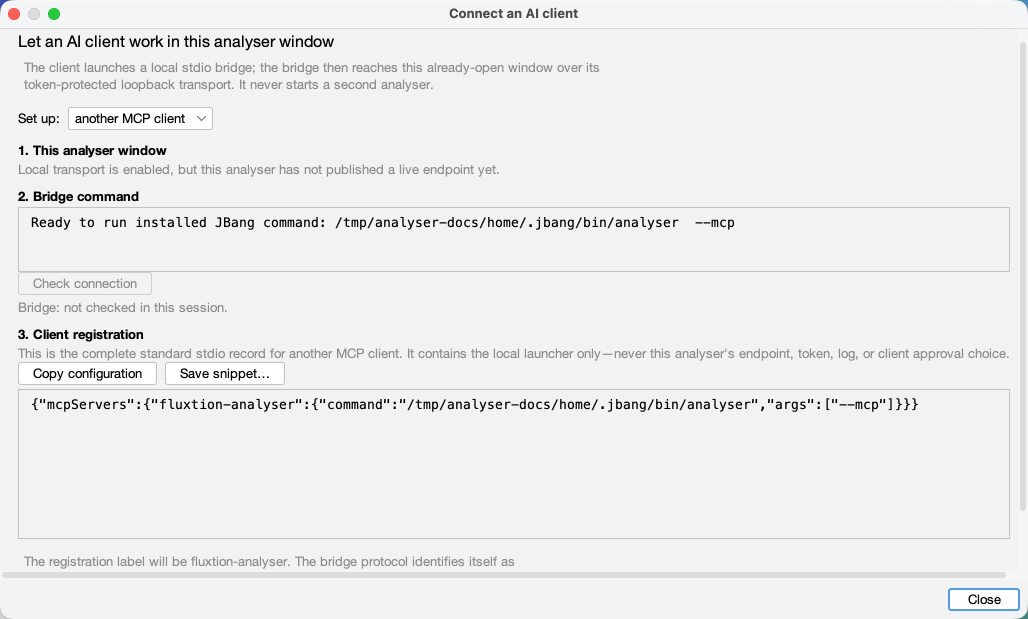
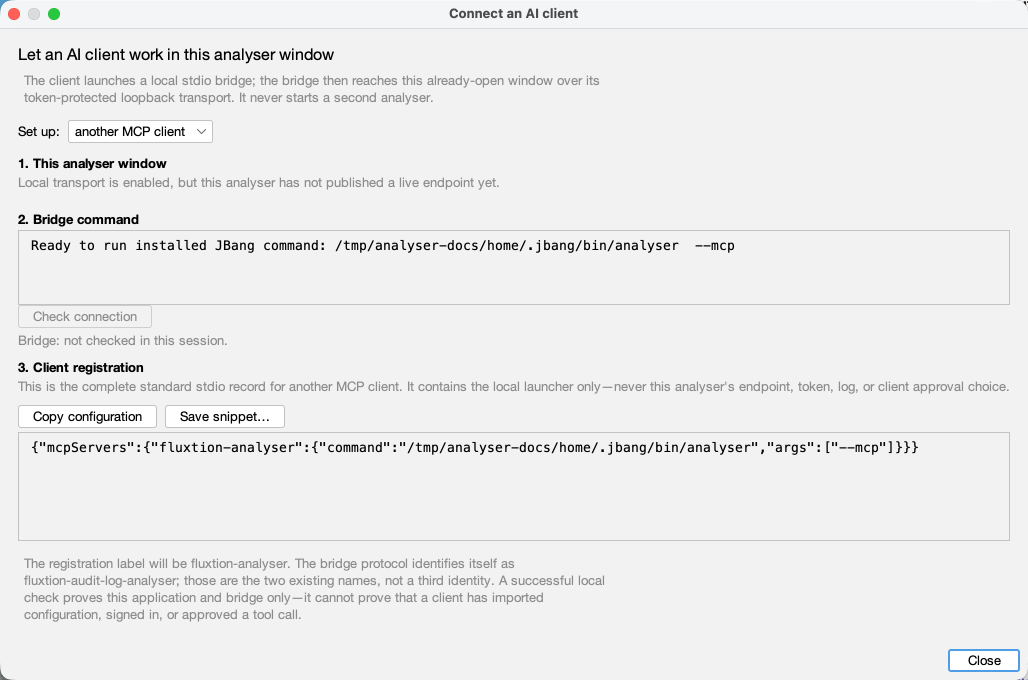
M42: close milestone review findings

diff --git a/src/main/java/telamin/fluxtion/audit/analyser/analyser/mcp/McpLaunchCommand.java b/src/main/java/telamin/fluxtion/audit/analyser/analyser/mcp/McpLaunchCommand.java
@@ -56,11 +56,12 @@ public final class McpLaunchCommand {
 
     /**
      * A safe form-2 resolver for an app launched directly from one shaded jar. It retains the current
-     * JVM's options through {@code -jar} (notably an isolated {@code -Duser.home}) and discards only the
-     * app arguments after the jar before adding {@code --mcp}. A classpath with more than one entry is
-     * deliberately refused: reconstructing an IDE or arbitrary Java launch would be a plausible-looking
-     * guess, not the exact bridge command a client should inherit. JBang wins whenever its documented
-     * launcher exists; this is the useful fallback for {@code java -jar} and release smoke tests.
+     * JVM's safe options through {@code -jar} (notably an isolated {@code -Duser.home}) and discards only the
+     * app arguments after the jar before adding {@code --mcp}. A classpath with more than one entry, or a
+     * debug/instrumentation JVM option, is deliberately refused: reconstructing an IDE or arbitrary Java launch
+     * would be a plausible-looking guess, not a bridge command a client can safely inherit. JBang wins whenever
+     * its documented launcher exists; this is the useful fallback for a plain {@code java -jar} launch and
+     * release smoke tests.
      */
     public static Optional<McpLaunchCommand> runningJar() {
         String classPath = System.getProperty("java.class.path", "");
@@ -99,6 +100,9 @@ public final class McpLaunchCommand {
             }
             if (jarFlag >= 0) {
                 // Everything after the jar is an app argument (log path, --rest, …), not a JVM option.
+                for (int i = 0; i < jarFlag; i++) {
+                    if (unsafeForClientBridge(currentArguments[i])) return Optional.empty();
+                }
                 for (int i = 0; i <= jarFlag; i++) launcher.add(currentArguments[i]);
                 launcher.add(jar.toString());
             } else {
@@ -113,6 +117,16 @@ public final class McpLaunchCommand {
         } catch (RuntimeException e) {
             return Optional.empty();
         }
+    }
+
+    /** Debug agents can bind an occupied port or suspend a client-launched bridge before it reads stdin. */
+    private static boolean unsafeForClientBridge(String argument) {
+        return argument.startsWith("-agentlib:")
+                || argument.startsWith("-agentpath:")
+                || argument.startsWith("-javaagent:")
+                || "-Xdebug".equals(argument)
+                || argument.startsWith("-Xrunjdwp:")
+                || (argument.startsWith("-XX:") && argument.contains("Debugger"));
     }
 
     /** A selected shaded jar, launched by the selected absolute Java executable. */

diff --git a/src/main/java/telamin/fluxtion/audit/analyser/analyser/ui/McpSetupDialog.java b/src/main/java/telamin/fluxtion/audit/analyser/analyser/ui/McpSetupDialog.java
@@ -117,7 +117,12 @@ public final class McpSetupDialog extends JDialog {
         buildUi();
         refreshReadiness();
         pack();
-        setMinimumSize(new Dimension(660, getHeight()));
+        // Keep the registration/naming disclosure in the first view on ordinary displays. The body remains
+        // scrollable when a short screen cannot accommodate this height.
+        int screenCappedHeight = Math.max(getHeight(), Toolkit.getDefaultToolkit().getScreenSize().height - 80);
+        int initialHeight = Math.min(screenCappedHeight, Math.max(680, getHeight()));
+        setMinimumSize(new Dimension(660, initialHeight));
+        setSize(Math.max(660, getWidth()), initialHeight);
         setLocationRelativeTo(owner);
     }
 
@@ -223,7 +228,7 @@ public final class McpSetupDialog extends JDialog {
 
     /** The generic record is intentionally larger than a command: its argument vector must be inspectable. */
     private static JTextArea configurationBox() {
-        return borderedTextBox(8, 68);
+        return borderedTextBox(5, 68);
     }
 
     /** Confirmation is deliberately wider: a local Java path must be inspectable before a client CLI runs. */

diff --git a/src/test/java/telamin/fluxtion/audit/analyser/analyser/mcp/McpLaunchCommandTest.java b/src/test/java/telamin/fluxtion/audit/analyser/analyser/mcp/McpLaunchCommandTest.java
@@ -75,4 +75,21 @@ class McpLaunchCommandTest {
         assertEquals(List.of(java.toAbsolutePath().toString(), "-Duser.home=" + dir.resolve("isolated-home").toAbsolutePath(),
                 "-jar", jar.toAbsolutePath().toString(), "--mcp"), command.command());
     }
+
+    @Test
+    void refusesDebugOrInstrumentationOptionsForTheDirectJarFallback() throws Exception {
+        Path java = dir.resolve("java");
+        Path jar = dir.resolve("analyser.jar");
+        Files.createFile(java);
+        Files.createFile(jar);
+
+        for (String unsafe : List.of("-agentlib:jdwp=transport=dt_socket,address=5005,suspend=y",
+                "-agentpath:/tmp/instrument.dylib", "-javaagent:/tmp/instrument.jar", "-Xdebug",
+                "-Xrunjdwp:transport=dt_socket,address=5005", "-XX:+UseDebugger")) {
+            assertTrue(McpLaunchCommand.fromRunningJar(java,
+                            new String[]{"-Duser.home=/tmp/isolated-analyser", unsafe, "-jar", jar.toString()},
+                            jar.toString(), ":", "/ignored-fallback").isEmpty(),
+                    "a client must not inherit " + unsafe);
+        }
+    }
 }

diff --git a/docs/specs/tracker.md b/docs/specs/tracker.md
@@ -19,9 +19,10 @@ named focuses · M28 conditionals + rolling windows + guides/bands · M29 extern
 M30 rolled log sets · M31 log-source plugins (core) · M32 marker series · M33 investigation reports
 (core) · M34.0–.3 source adapters (SPI, degradation, format spec + conformance suite) · M35 log +
 graph lifecycle (all eleven) + §E provenance · **M36 start page (.1–.5) · M37 Project panel · M38 portable
-context (.1–.7) · M40 audit readiness (.1/.2a/.2b/.3)** · refinement rounds 2–13 · assistant-vocabulary
-follow-ups. _(Polish H1, 2026-08-25: verified every section left in this file has open items; the
-archaeology the 2026-08-17 brief asked for had been done by the per-merge tidies.)_
+context (.1–.7) · M40 audit readiness (.1/.2a/.2b/.3) · M42 Connect an AI client** · refinement rounds
+2–13 · assistant-vocabulary follow-ups. _(Polish H1, 2026-08-25: verified every section left in this
+file has open items; the archaeology the 2026-08-17 brief asked for had been done by the per-merge
+tidies.)_
 
 ---
 
@@ -337,36 +338,6 @@ premise was wrong: `jbang app install analyser@telaminai/fluxtionauditlog-analys
 fetches a JDK itself), `~/.jbang/bin/analyser` is the stable launcher path the MCP recipe already uses, and `--rest`
 already turns the transport on without editing `config`. Native bundles would have added a Dock icon and a signing
 bill. Recorded under Decisions so it is not re-raised; reopen only when a user who cannot run JBang actually appears._
-
-## M42 · Connect an AI client — ☑ COMPLETE 2026-08-28
-_Design: **[spec-mcp-client-install.md](spec-mcp-client-install.md)**. M41 installed the application; this is the
-separate, client-specific last mile: a Start-page/Assistant setup flow registers the existing `--mcp` bridge with
-**Codex** and **Claude Code**, and supplies a generic MCP record (including the Claude Desktop fallback). It does not
-add another protocol server, start a duplicate GUI, copy a per-run token, or edit unknown foreign configuration files
-silently. The analyser proves its own side with a loopback invocation of the exact bridge command and read-only
-`analyser_context`; it refuses `OTHER_INSTANCE` when another analyser owns the last-writer-wins endpoint, and a
-green check never pretends it has observed a foreign client or model._
-- [M42.1] ☑ **Launch command + loopback probe** — resolved absolute launcher, argument-vector process handling,
-  redaction, `OTHER_INSTANCE` protection, and a real bridge → REST → `context` test under isolated home. The M19
-  isolated-home bench now launches the packaged `--mcp` child and proves modern discovery, `analyser_context`
-  discovery and its read-only call back into that exact analyser (2026-08-27).
-- [M42.2] ☑ **Human surface + readiness** — non-modal Start-page card; persistent Assistant setup; explicit local
-  transport enablement; distinct app/bridge/client state. The packaged-launch bridge check and its wrapped,
-  copyable command field were manually reviewed in the running UI (2026-08-27).
-- [M42.3] ☑ **Codex registration** — current CLI integration, confirmed add/replace/remove and a copy fallback.
-  Codex discovered the `fluxtion-analyser` registration and its 14 tools (2026-08-27); human acceptance of the
-  final read-only `analyser_context` check is recorded (2026-08-28).
-- [M42.4] ☑ **Claude Code registration** — current user-scoped CLI integration; project `.mcp.json` is deliberate,
-  copy/diff-only, never a default side effect. Its shared confirmation disclosure uses a readable desktop-width
-  command field (2026-08-27); human acceptance is recorded (2026-08-28).
-- [M42.5] ☑ **Claude Desktop route** — live MCPB contract verified; the documented generic-config fallback is
-  retained because the per-machine JBang/Java bridge has no portable bundled entry point (2026-08-27).
-- [M42.6] ☑ **Generic configuration + docs** — exact argument-vector JSON can be copied or saved only to a
-  user-chosen file (with overwrite confirmation); connection, Assistant, Start-page and FAQ guidance now cover
-  the in-app path, including the Working-with-AI connection and loop pages. Isolated native setup and confirmation
-  captures are published and visually inspected; the install and MCP guides now explicitly distinguish the
-  `analyser` JBang executable, `fluxtion-analyser` client registration, and bridge protocol name;
-  `mvn test` and `mkdocs build --strict` are green (2026-08-27).
 
 ## M34 · Source adapters — ◧ **.0–.3 MERGED to main 2026-08-25** (format spec + conformance suite published); .4/.5 open
 _Design: **[spec-source-adapters.md](spec-source-adapters.md)**. Owner ask: make the app general

diff --git a/docs/specs/completed/tracker.md b/docs/specs/completed/tracker.md
@@ -1810,3 +1810,42 @@ diagnose the graph. Every other producer check needs a log to examine, and the w
   levels present and names what they would have discarded, surfaced on `coverage` only when there IS a
   gap the level could explain. Two facts, no verdict — the log genuinely cannot tell "the threshold
   excluded them" from "nothing called `debug()`", so it does not pretend to.
+
+## M42 · Connect an AI client — ☑ COMPLETE 2026-08-28
+_Design: **[spec-mcp-client-install.md](spec-mcp-client-install.md)**. Acceptance record:
+`docs/handoff/completed/report_m42_client_install.txt`; final review:
+`docs/handoff/completed/review_m42_milestone.txt`._
+
+M41 installed the application; M42 is the separate, client-specific last mile: a Start-page/Assistant
+setup flow registers the existing `--mcp` bridge with **Codex** and **Claude Code**, and supplies a
+generic MCP record (including the Claude Desktop fallback). It does not add another protocol server,
+start a duplicate GUI, copy a per-run token, or edit unknown foreign configuration files silently. The
+analyser proves its own side with a loopback invocation of the exact bridge command and read-only
+`analyser_context`; it refuses `OTHER_INSTANCE` when another analyser owns the last-writer-wins endpoint,
+and a green check never pretends it has observed a foreign client or model.
+
+- [M42.1] ☑ **Launch command + loopback probe** — resolved absolute launcher, argument-vector process handling,
+  redaction, `OTHER_INSTANCE` protection, and a real bridge → REST → `context` test under isolated home. The M19
+  isolated-home bench launches the packaged `--mcp` child and proves modern discovery, `analyser_context`
+  discovery and its read-only call back into that exact analyser (2026-08-27). The direct-JAR fallback now
+  refuses debug/instrumentation JVM options rather than enrolling a bridge that could suspend or bind a
+  debugger port when a client launches it (final review F1, 2026-08-28).
+- [M42.2] ☑ **Human surface + readiness** — non-modal Start-page card; persistent Assistant setup; explicit local
+  transport enablement; distinct app/bridge/client state. The packaged-launch bridge check and its wrapped,
+  copyable command field were manually reviewed in the running UI (2026-08-27).
+- [M42.3] ☑ **Codex registration** — current CLI integration, confirmed add/replace/remove and a copy fallback.
+  Codex discovered the `fluxtion-analyser` registration and its 14 tools (2026-08-27); the product owner's
+  final read-only `analyser_context` acceptance is recorded in `report_m42_client_install.txt` (2026-08-28).
+- [M42.4] ☑ **Claude Code registration** — current user-scoped CLI integration; project `.mcp.json` is deliberate,
+  copy/diff-only, never a default side effect. Its shared confirmation disclosure uses a readable desktop-width
+  command field (2026-08-27); the product owner's final acceptance is recorded in
+  `report_m42_client_install.txt` (2026-08-28).
+- [M42.5] ☑ **Claude Desktop route** — the live MCPB contract was verified at its first-party sources (named in
+  `report_m42_client_install.txt`); the documented generic-config fallback is retained because the per-machine
+  JBang/Java bridge has no portable bundled entry point (2026-08-27).
+- [M42.6] ☑ **Generic configuration + docs** — exact argument-vector JSON can be copied or saved only to a
+  user-chosen file (with overwrite confirmation); connection, Assistant, Start-page and FAQ guidance cover the
+  in-app path, including the Working-with-AI connection and loop pages. Isolated native setup and confirmation
+  captures are published and visually inspected; the install and MCP guides explicitly distinguish the
+  `analyser` JBang executable, `fluxtion-analyser` client registration, and bridge protocol name. The final
+  generic capture shows the complete naming disclosure (final review F4, 2026-08-28).

diff --git a/CHANGELOG.md b/CHANGELOG.md
@@ -7,6 +7,12 @@ Add a line under **[Unreleased]** with every user-visible change; the release wo
 ## [Unreleased]
 
 ### Fixed
+- **A direct-JAR MCP registration now refuses debug and instrumentation JVM flags.** Setup will not
+  copy a JDWP or Java-agent option into the client bridge command, where it could bind an occupied
+  debug port or suspend before the client can talk to it.
+- **Generic MCP setup shows its complete identity disclosure immediately.** The JSON field is more
+  compact and the dialog opens tall enough on ordinary screens to show the JBang, registration, and
+  bridge names without clipping the final explanation.
 - **Client-registration confirmations no longer squeeze the command.** Codex and Claude Code now use
   a wider confirmation window and command field, so the exact Java/JBang bridge vector is readable
   before either client CLI is allowed to run.

diff --git a/docs/specs/completed/spec-mcp-client-install.md b/docs/specs/completed/spec-mcp-client-install.md
@@ -2,7 +2,7 @@
 
 **Status:** SHIPPED 2026-08-28
 **Milestone:** M42  
-**Extends:** [M13 MCP transport](spec-assistant-actions-mcp.md), [Start page](completed/spec-start-page.md), and [the connection guide](../site/connect-an-llm.md).  
+**Extends:** [M13 MCP transport](../spec-assistant-actions-mcp.md), [Start page](spec-start-page.md), and [the connection guide](../../site/connect-an-llm.md).
 **Does not reopen:** M41 native installation. JBang remains the supported way to install the application.
 
 ## The outcome
